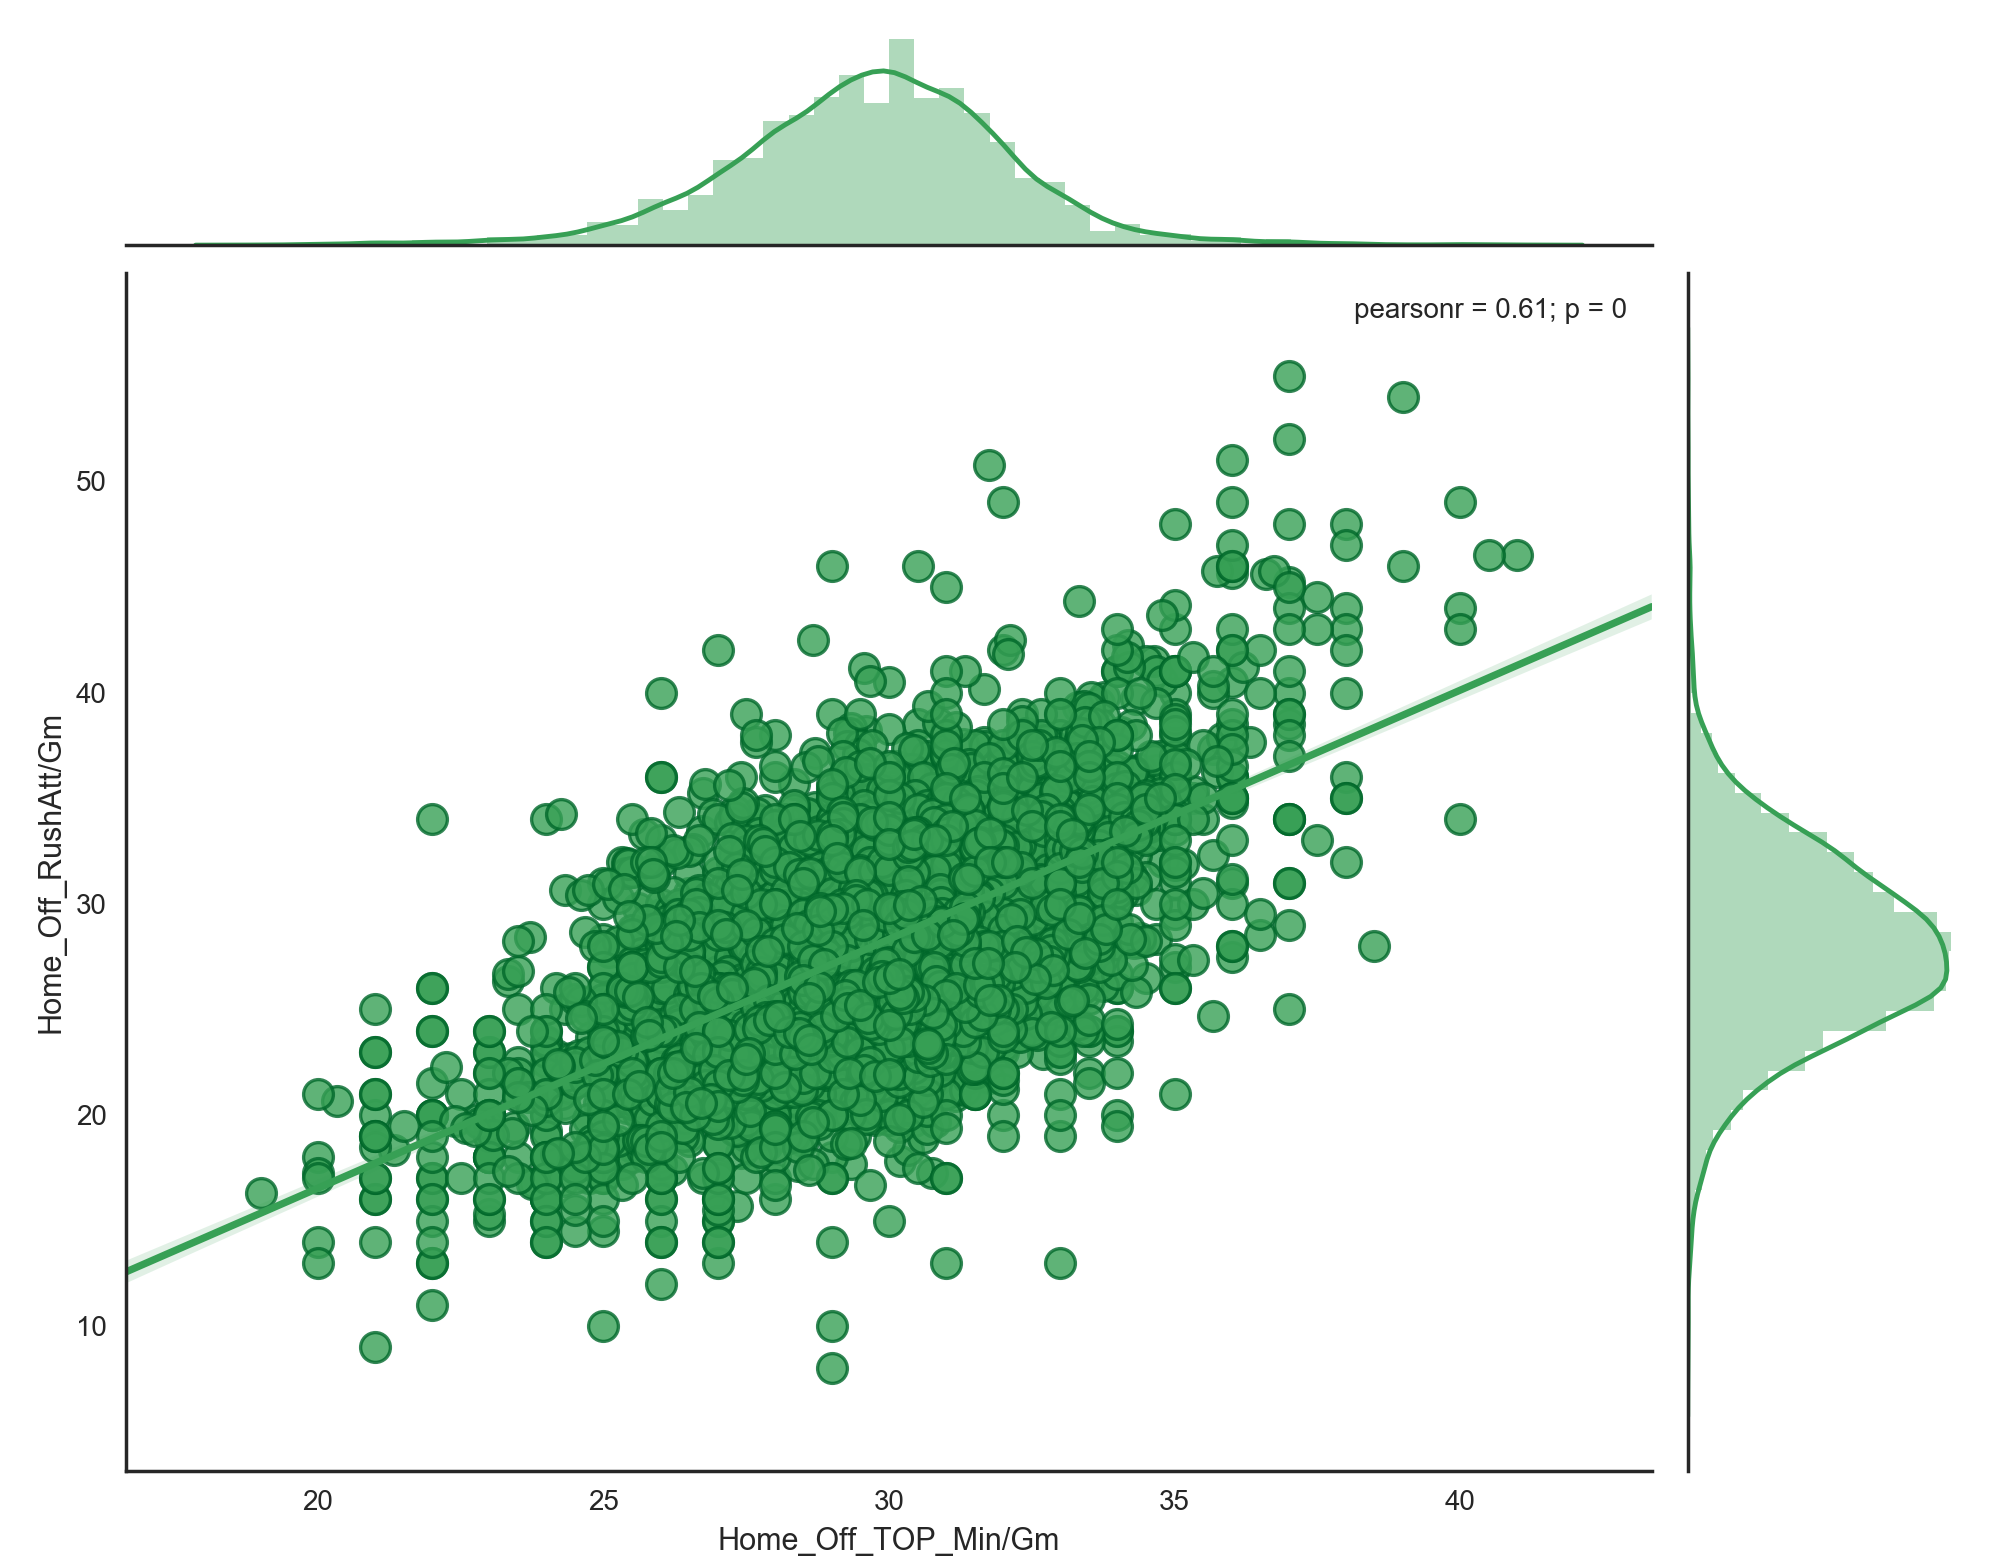
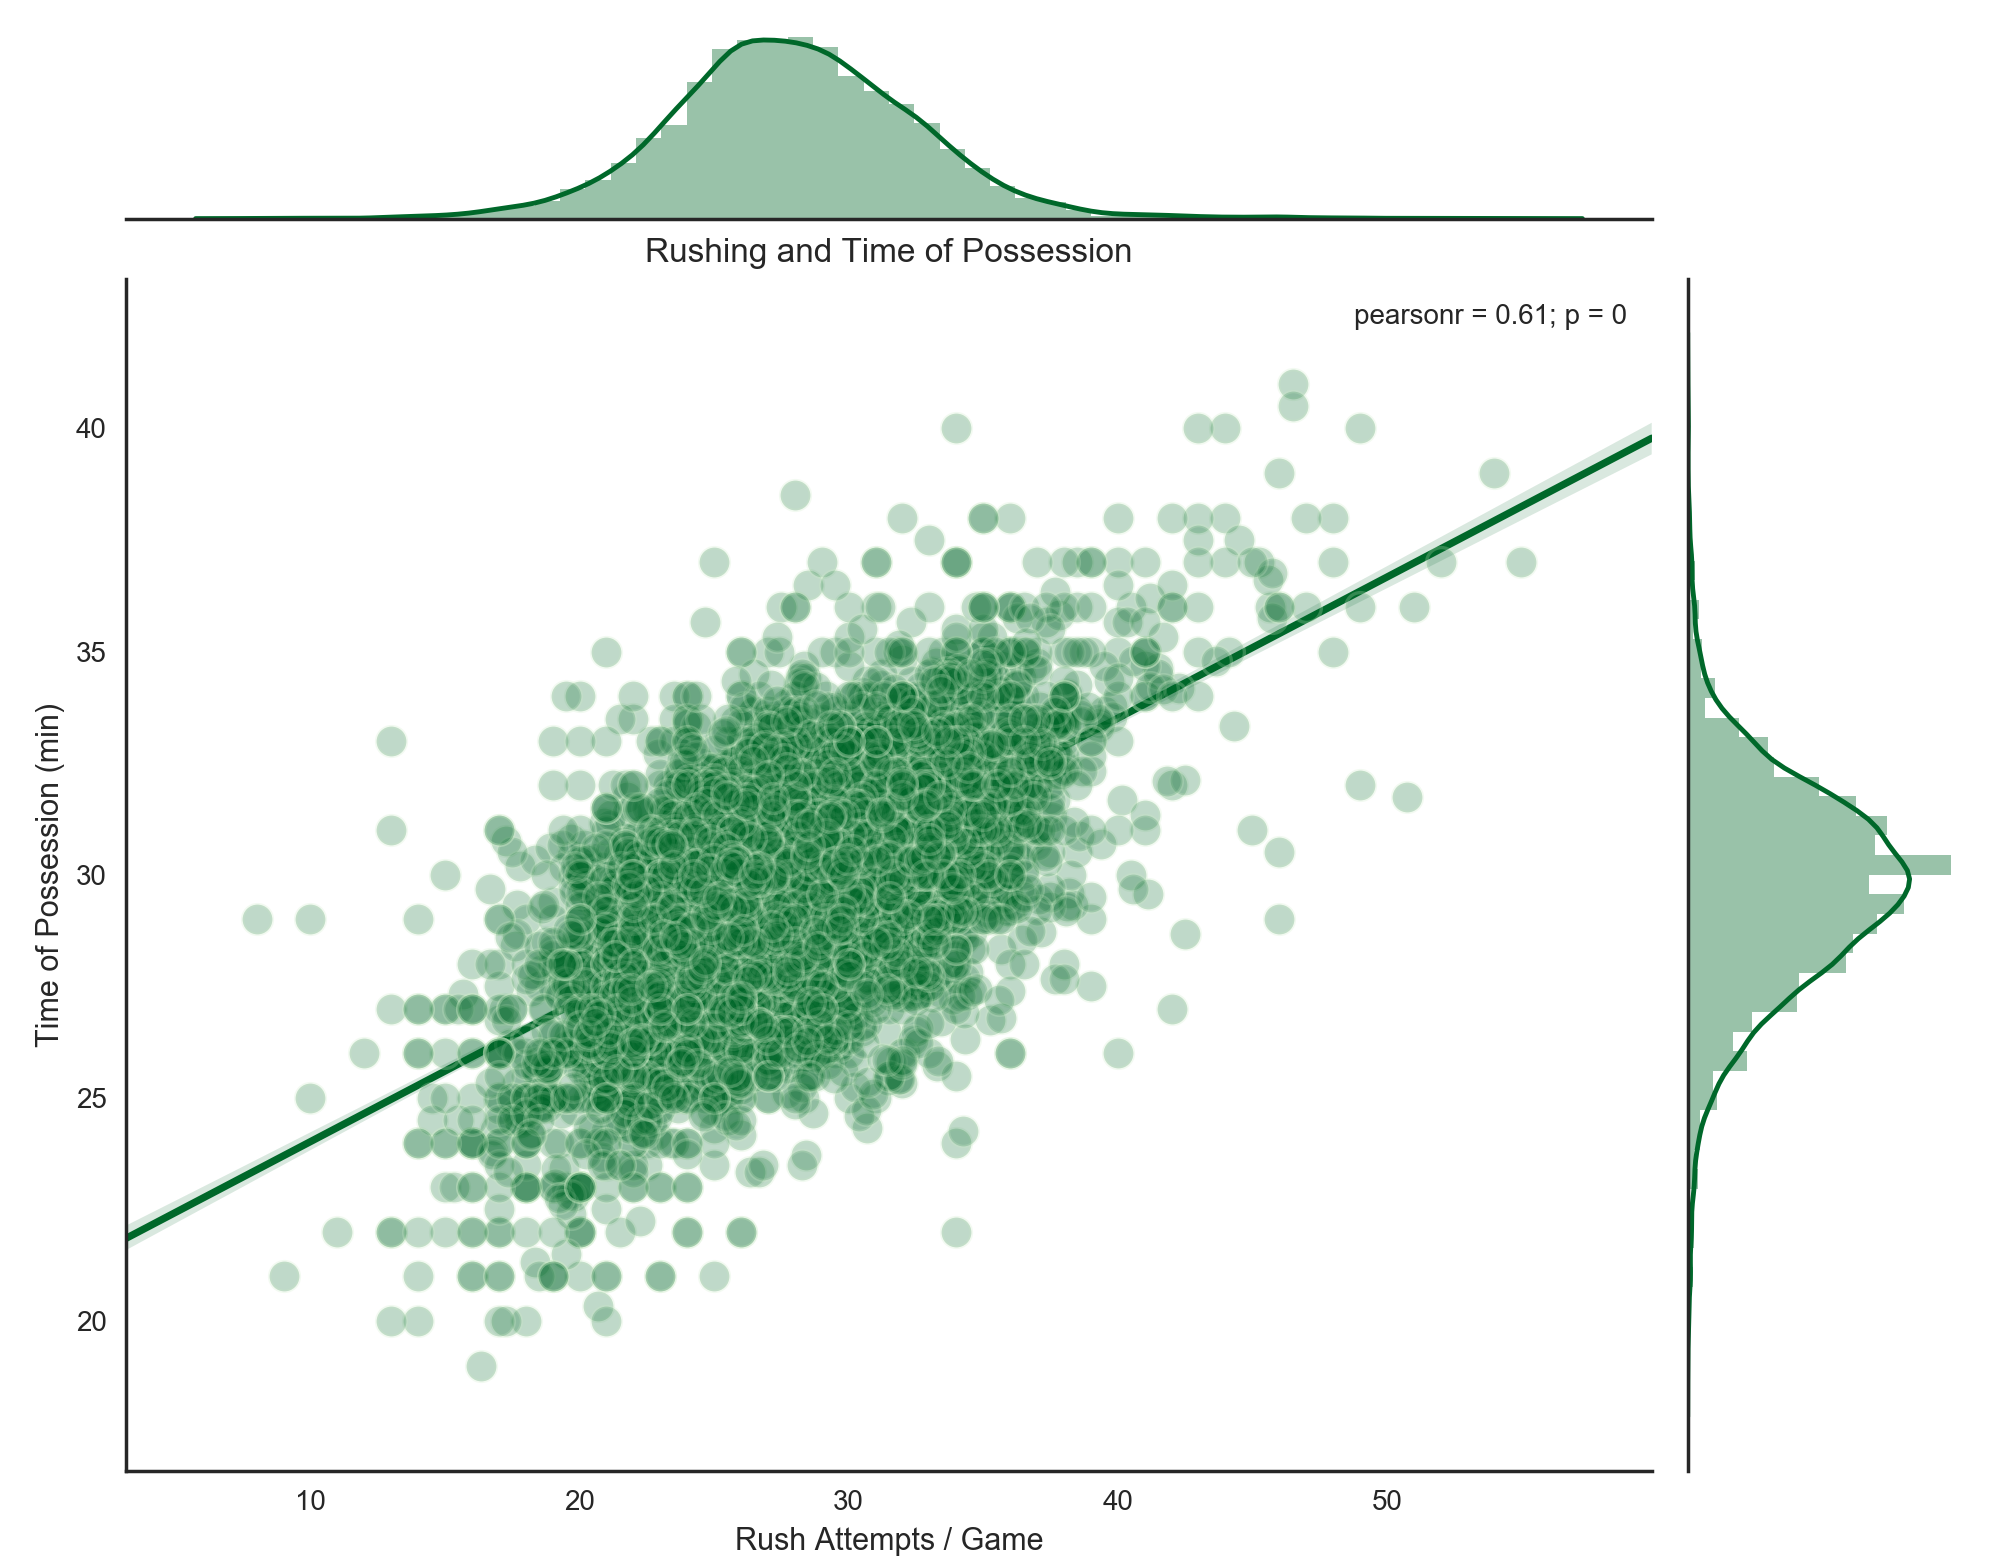
update all

diff --git a/README.md b/README.md
@@ -654,7 +654,7 @@ Pass Att. / Gm                     | 5    | 0.92%
 ###### Rushing and Winning
 Other features that help predict whether a team will win or not read like a list of the usual suspects: superiority in advanced metrics like [DVOA](#advanced-metrics) and [EPA](#advanced-metrics), rushing stats per game, penalties and penalty yards per game, and 3rd and 4th down efficiency.  _Time of possession_ clocks in at \#29.  _Time of possession_ and the various _rushing_ stats (five total in the top 40 but none before tier 4) offer a textbook case of the "chicken and the egg" conundrum, however.  At first glance it is tempting to simply say "teams that have the ball more and have more rushing attempts per game win more."  Statistically, yes, our model says that is true.  
 
-But we must think about it one level deeper.  Doing so, we realize that teams which are leading _overwhelmingly_ run the ball more than teams that are trailing (Chase Stuart’s easily digestible “[game scripts](http://www.footballperspective.com/introducing-game-scripts-part-i/)” metric does a good job of capturing this).  As a result, teams that are trailing face far more rushes and subsequently give up more yards.  So, in a way the model is likely picking up that teams that allow more rushing yards than others are frequently trailing... and when you’re frequently trailing you are going to lose more often than win.  The fallacy (known in the stats community as the [“establish the run”](http://www.footballoutsiders.com/stat-analysis/2003/establishment-clause) fallacy, popularized by Aaron Schatz at Football Outsiders back in 2003 <sup>[__7__](#fn7)</sup>) that so many jabbering heads on TV espouse of “run the ball to win!” is actually the inverse of what happens, and I suspect this is what the model also detects.  It’s the teams that are already winning which choose to run the ball, not vice versa.  [Figures 666](#time-of-possession-and-rushing-attempts) and [667](#)
+But we must think about it one level deeper.  Doing so, we realize that teams which are leading _overwhelmingly_ run the ball more than teams that are trailing (Chase Stuart’s easily digestible “[game scripts](http://www.footballperspective.com/introducing-game-scripts-part-i/)” metric does a good job of capturing this).  As a result, teams that are trailing face far more rushes and subsequently give up more yards.  So, in a way the model is likely picking up that teams that allow more rushing yards than others are frequently trailing... and when you’re frequently trailing you are going to lose more often than win.  The fallacy (known in the stats community as the [“establish the run”](http://www.footballoutsiders.com/stat-analysis/2003/establishment-clause) fallacy, popularized by Aaron Schatz at Football Outsiders back in 2003 <sup>[__7__](#fn7)</sup>) that so many jabbering heads on TV espouse of “run the ball to win!” is actually the inverse of what happens, and I suspect this is what the model also detects.  It’s the teams that are already winning which choose to run the ball, not vice versa.  [Figures 666](#time-of-possession-and-rushing-attempts) and [667](#passing=and-rushing-attempts-correlation-to-margin-of-victory)
 
 ###### Time of Possession and Rushing Attempts
 <img src="images/top_v_rush_att.png" align="middle" alt="Time of Possession Correlation to Rush Attempts">
@@ -663,7 +663,9 @@ But we must think about it one level deeper.  Doing so, we realize that teams w
 
 <BR>
 
+The relationship between rushing attempts and time of possession is stark but sensible.  The clock is stopped after every incomplete pass or after a player steps out of bounds, which also happens more often after a pass play.  It continues running after a player is tackled in the field of play, which is the result of the vast majority of rushing plays.  When you're leading in the game, especially in the second half, you want to "shorten" the game by using a much time per play as possible.  This regression plot shows what both we and coaches intuitively know: running the ball is directly tied to draining the play clock.  The same correlation between number of passing attempts and time of possession yields a piddling R<sup>2</sup> value of __.044__, which is essentially zero.    
 
+<BR>
 
 ###### Passing and Rushing Attempts Correlation to Margin of Victory
 <img src="images/pass_v_rush_margin_vic.png" align="middle" alt="Passing and Rushing Correlation to Margin of Victory">
@@ -672,9 +674,9 @@ But we must think about it one level deeper.  Doing so, we realize that teams w
 
 <BR>
 
+A second look at the concept of "rushing because we're winning" is to see how the number of rushing attempts correlates to average margin of victory.  There is a distinct positive relationship, while the same regression for number of passing attempts is actually slightly negative.  The old adage "correlation is not causation" applies here.  Someone uninterested in the underlying mechanics of the relationship, or nearly every sports TV talking head, would take one glance and conclude that the secret to winning more games is simply to run the ball more.  But as discussed above in the [Rushing and Winning](#rushing-and-winning) section, the inverse of this is actually true.  
 
-**talk about rushing while winning via charts**
-
+Properly understood from this context, [Figure 667](#passing=and-rushing-attempts-correlation-to-margin-of-victory) shows that the bigger a team's lead, the more they're going to run the ball.  Conversely, teams that are trailing have to pass to catch up.  Again, as mentioned above, on average passing using less of the clock per play than rushing, and also covers more yardage.  Thus, we see the negative relationship of "bigger deficit correlates with more passing."
 
 ###### Turnovers
 Turnovers appear in tier 5 with _difference in average turnovers caused per game_.  This is a tough one.  We know that in any game turnovers are massively important.  They directly rob one team of a possession and gift one to the other (usually with advantageous field position).  This model doesn’t see a team's average turnover rate as being supremely __predictive__ because they are in some degree unpredictable.  Team A may be averaging 2.2 turnovers per game and Team B may average 1.8, but they might fluctuate a good deal between games (high).  These differences don’t appear to be extremely predictive (about as predictive as the difference in 1st downs per team, penalties per team, or passing yards per team).  
@@ -687,10 +689,16 @@ I was a bit surprised to see _hours of rest_ omitted from this list.  I expected
 ###### Weekday, Surface, and Stadium
 Some of the less important items are routinely the _day of the week_ the game is played on.  This makes sense since the day of the game is shared by both teams, so it is usually not a dividing feature.  However, we did see that hours of rest do matter, so teams that play on Sunday night then on Thursday reasonably have a disadvantage.  Another seemingly unimportant variable is the _surface_ and _stadium_.  Domes, retractable roofs, open stadiums, astroturf, sport turf, dessograss, field turf, natural grass... none of these variables have much impact at all compared to the actual team-centered and matchup-centered stats.
 
-The overwhelming importance of the spread is
+###### The Power of the Spread
+The power of the spread in determining which team will win the game is clearly valuable to the model.  But to understand why the model gains more information from the spread than from other statistics takes a bit of digging.  Other statistics have similar correlations to the outcome of a game, as shown here in __Figure 669__.  
 
+<img src="images/home_win_feats_matrix.png" align="middle" alt="Scatter Matrix of top three features for determining the winner">
 
+<sub>__Figure 669:__ The relationships between the three most important features in predicting the game winner, 1991-2016.</sub>
 
+<BR>
+
+There doesn't appear to be a divide as sharp as the model's feature importance results suggest there is between the spread and the next two most important features.  After all, the difference in _Total DVOA_ and _Points Allowed per Game_ seem to be at least in the same ballpark as the spread for explaining the variance in the outcome of a game.  I was curious as to what was causing the apparent discrepancy and decided to dig a little deeper.
 
 ###### Prediction Confidence
 
